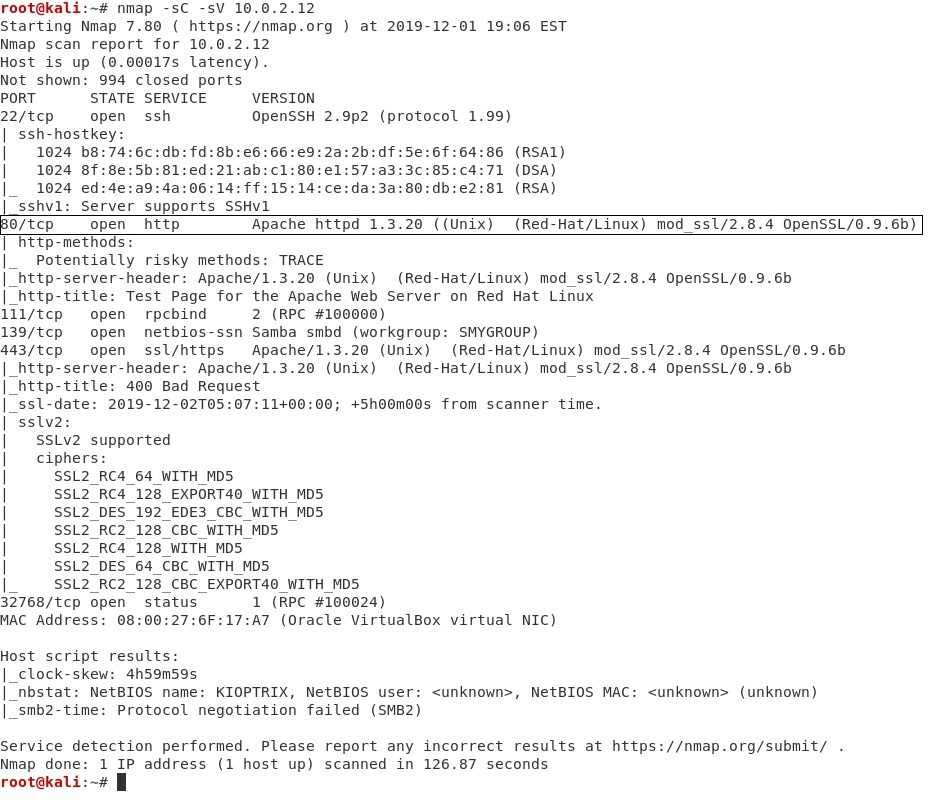
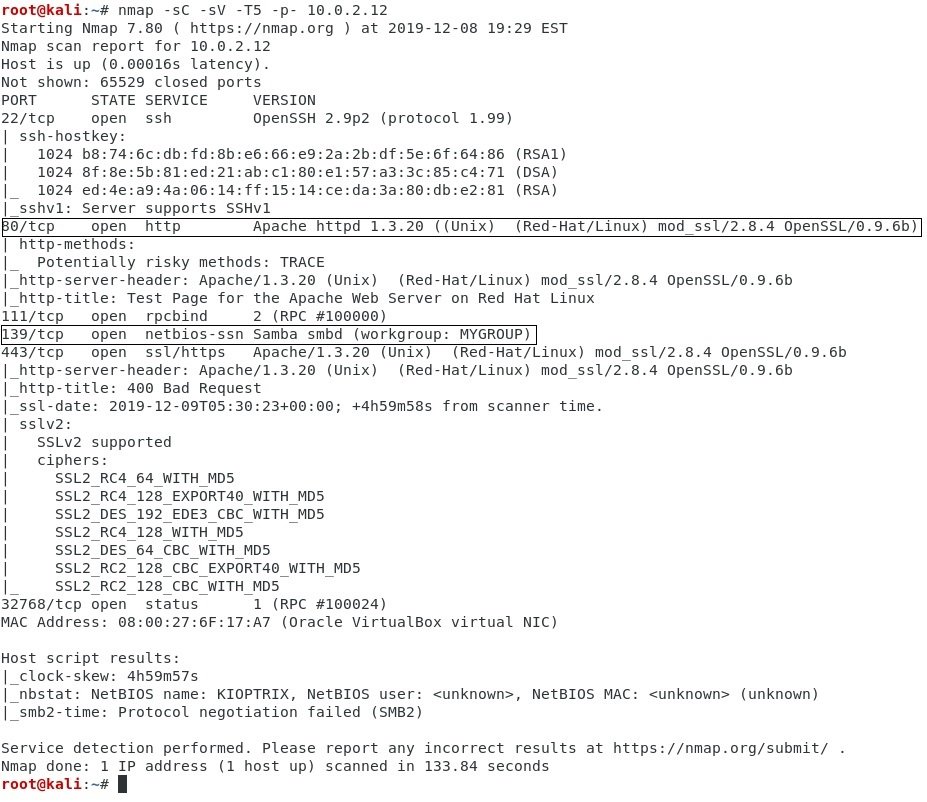
Reorganised kioptrix-level-1 with additional info

Changed region(s): [[0.0, 0.0, 0.9968, 0.7793], [0.0, 0.8105, 0.8759, 0.9975]]

diff --git a/kioptrix-level-1.md b/kioptrix-level-1.md
@@ -11,8 +11,9 @@ By Kioptrix
 ![](/screenshots/kioptrix-level-1/loginInitial.jpg)
 * Run `nmap 10.0.2.*`, where we find `10.0.2.12` to be the IP address of the vulnerable machine. 6 services were also discovered, where they are all in an Open state.
 ![](/screenshots/kioptrix-level-1/nmapScan.jpg)
-* Run `nmap -sC -sV 10.0.2.12` to enumerate the running services:
+* Run `nmap -sC -sV -T5 -p- 10.0.2.12` to enumerate the running services:
 ![](/screenshots/kioptrix-level-1/hostFullScan.jpg)
+* Note: This screenshot was updated during a re-visit of the machine.
 * As this machine is relatively much older than all of the challenges we had done so far, we are seeing the versions of the services running being much older (and thus I am also guessing that it will be easier to find exploits specific to these versions?).
 * Let us start with the Apache httpd service at port 80.
 
@@ -57,12 +58,25 @@ By Kioptrix
 * The above exploit was one of those that abatchy tried (but did not find working in this machine's instance), as seen in [his blog post on the same vulnerable machine](https://www.abatchy.com/2016/11/kioptrix-1-walkthrough-vulnhub).
 
 ## Samba Smbd Service at Port 139 ##
-
-### Remote Root Exploit (Non-Metasploit) ###
+### Enumerating Service Information ###
 * Running `enum4linux 10.0.2.12` quickly gave us a long list of results. We see `KIOPTRIX Wk Sv PrQ Unx NT SNT Samba Server` under the `OS Information` section, with OS version `4.5` running.
 ![](/screenshots/kioptrix-level-1/enum4linuxOsInformation.jpg)
-* **Re-visit/Question**: I read from kongwenbin's write-up that running the command should give us the OS information for the smbclient as well. Notice that ours is left blank as shown above. Crucially, it reveals that the Samba version is `2.2.1a`, and not 4.5 as what we thought!
-* Given this crucial piece of information, the [first Google search result](https://www.exploit-db.com/exploits/10) (which is from Exploit-DB) for `samba 2.2.1a exploit` was able to give me a `root` shell easily - `Remote Code Execution`:
+* **Re-visit**: I read from kongwenbin's write-up that running the command should give us the OS information for the smbclient as well. Notice that ours is left blank as shown above. Crucially, it reveals that the Samba version is `2.2.1a`, and not 4.5 as what we thought!
+* After re-searching on this issue, I found out that it has been an unresolved one, with an [issue open on the enum4linux GitHub repository](https://github.com/portcullislabs/enum4linux/issues/5), and a [closed issue in Kali Bug Tracker](https://bugs.kali.org/view.php?id=4495), whose solution I did not attempt because it did not feel right. There is [a post on the OSCP forums](https://forums.offensive-security.com/showthread.php?22241) about this - with several options to replace the particular malfunction feature of enum4linux (or even the tool itself altogether):
+1. Use a Metasploit module (found [here](https://www.offensive-security.com/metasploit-unleashed/scanner-smb-auxiliary-modules/)) - `msfconsole`, `use auxiliary/scanner/smb/smb_version`, `set RHOSTS 10.0.2.12` and finally `run`:
+![](/screenshots/kioptrix-level-1/metasploitModuleSmbVersion.jpg)
+* **Question**: I am not too sure why it says `Host could not be identified`, although the output was correct and instantaneous.
+2. Use a [bash script](https://0xdf.gitlab.io/2018/12/02/pwk-notes-smb-enumeration-checklist-update1.html)
+3. Use a [dedicated Python script](https://github.com/amitn322/smb-version) just for getting the version of Samba server
+4. Use a [ported Python-equivalent script](https://github.com/0v3rride/Enum4LinuxPy) (that was ported over from the original Perl version)
+
+### 2 Avenues to Obtain Root Shell Through BoF Vulnerability ###
+* There are 2 general avenues to get a `root` shell in this section, one through a Metasploit module, and the other through non-Metasploit methods. There are multiple POCs available for the latter, especially as seen in the [exploit's section of the remote buffer overflow vulnerability that is used](https://www.securityfocus.com/bid/7294/exploit).
+* Note: Those links listed in the page no longer work (for me at least).
+* Note-to-self: When in doubt if POCs are using the same vulnerability, use the CVE listed as one of the ways to determine. I was confused initially because of the naming of the exploit that made me mistake that there were more than 1 vulnerability here that could get us a `root` shell.
+
+### trans2open Overflow (Non-Metasploit) ###
+* With the Samba version obtained, our [first Google search result](https://www.exploit-db.com/exploits/10) (which is from Exploit-DB) for `samba 2.2.1a exploit` was able to give us a `root` shell easily - through a `Remote Code Execution`:
 ![](/screenshots/kioptrix-level-1/sambaExploitGoogleSearch.jpg)
 * After downloading and compiling the code (`gcc 10.c`), run `./a.out -b 0 10.0.2.12`:
 ![](/screenshots/kioptrix-level-1/sambaRemoteRootExploit.jpg)
@@ -81,7 +95,7 @@ By Kioptrix
 * Changing the payload would solve the issue: `set payload generic/shell_reverse_tcp`. Run `exploit` next to get a `root` shell:
 ![](/screenshots/kioptrix-level-1/metasploitReverseShell.jpg)
 
-### Other Attempts ###
+### Other Attempts for Samba Service ###
 * The Share Enumeration results from `enum4linux` was also noted, where there are errors encountered when trying to "map shares". There was also a list of results for users and groups.
 * Running `smbmap -H 10.0.2.12` shows a single line of output, `[+] Finding open SMB ports....`, before the program terminates. Judging this against from what we see in `lazysysadmin`, the Kioptrix has only got one port (on 139) with the `netbios-ssn` service, as compared to the latter which has 2 ports (on 139 and 445), which probably explains the non-discovery of open SMB ports in this instance (I think).
 * Accessing `smb://10.0.2.12/` using the Kali Linux file explorer shows nothing. I had expected `IPC$` and `ADMIN$` to be showing up at least, as seen on `lazysysadmin`. However, in hindsight, since they were not found using `smbmap`, that could be the reason why we are not seeing them this way as well.
@@ -103,3 +117,4 @@ I wanted to work on this box as one of the first few boxes to start my journey t
 
 # Other Walkthrough References
 1. https://kongwenbin.wordpress.com/2016/10/25/writeup-for-kioptrix-level-1/
+2. https://www.abatchy.com/2016/11/kioptrix-1-walkthrough-vulnhub
